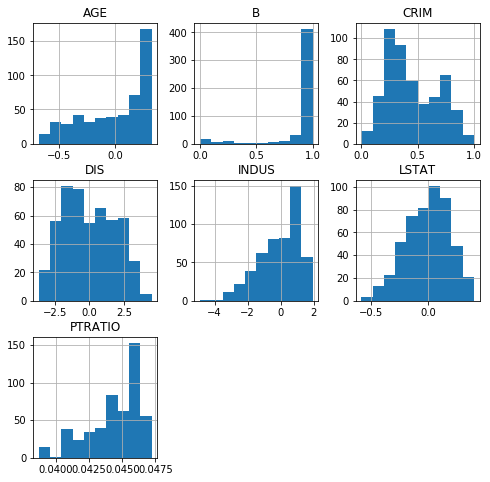
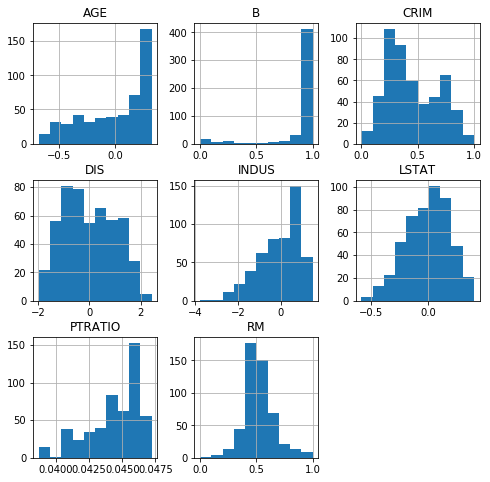
solution done

diff --git a/README.md b/README.md
@@ -157,10 +157,6 @@ boston_cont.head()
 boston_cont.hist(figsize  = [8, 8]);
 ```
 
-
-![png](index_files/index_9_0.png)
-
-
 ## Perform log transformations for the variables where it makes sense
 
 Analyze the results in terms of how they improved the normality performance. What is the problem with the "ZN" variable?  
@@ -221,6 +217,7 @@ Store your final features in a dataframe `features_final`
 ```python
 age = boston_cont["AGE"]
 b = boston_cont["B"]
+rm = boston_cont["RM"]
 logcrim = data_log["CRIM"] 
 logdis = data_log["DIS"]  
 logindus = data_log["INDUS"] 
@@ -231,8 +228,9 @@ features_final= pd.DataFrame([])
 
 features_final["CRIM"] = (logcrim-min(logcrim))/(max(logcrim)-min(logcrim))
 features_final["B"] = (b-min(b))/(max(b)-min(b))
-features_final["DIS"]   = (logdis-np.mean(logdis))/np.var(logdis)
-features_final["INDUS"] = (logindus-np.mean(logindus))/(np.var(logindus))
+features_final["RM"] = (rm-min(rm))/(max(rm)-min(rm))
+features_final["DIS"]   = (logdis-np.mean(logdis))/np.sqrt(np.var(logdis))
+features_final["INDUS"] = (logindus-np.mean(logindus))/np.sqrt(np.var(logindus))
 features_final["LSTAT"] = (loglstat-np.mean(loglstat))/(max(loglstat)-min(loglstat))
 features_final["AGE"] = (age-np.mean(age))/(max(age)-min(age))
 features_final["PTRATIO"] = (logptratio)/(np.linalg.norm(logptratio))
